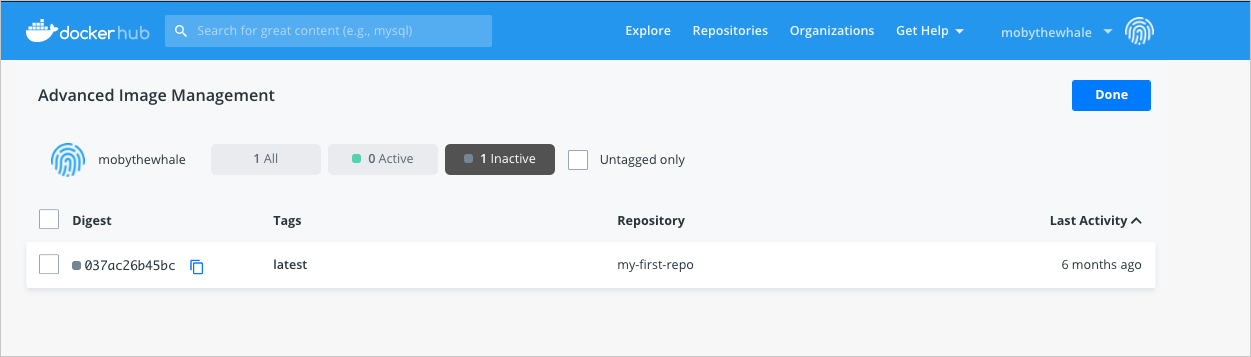
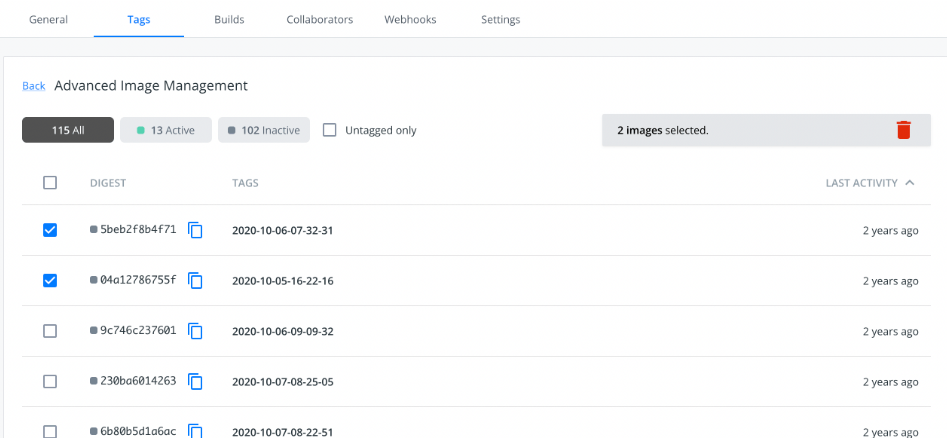
updated content

diff --git a/docker-hub/image-management.md b/docker-hub/image-management.md
@@ -24,11 +24,14 @@ With the new Advanced Image Management dashboard, all of this is now simpler and
 
 To access the  Advanced Image Management dashboard:
 
-1. Log into [Docker Hub](https://hub.docker.com){: target="_blank" rel="noopener" class="_"}.
-2. Click **Repositories** from the main menu and select a repository from the list. This displays a banner indicating the number of inactive images in the repository.
-3. Click **View inactive images**. This displays the Advanced Image Management dashboard. It lists images in your repository and allows you to sort and filter images by tags, activity status, and the last activity date.
+1. Log in to [Docker Hub](https://hub.docker.com){: target="_blank" rel="noopener" class="_"}.
+2. Click **General** and click **Go to Advanced Image Management** from the main menu, and select a repository from the list.
 
-    > You must be logged in as a Docker Pro, Team, or a Business user to use the Advanced Image Management dashboard. Click [Upgrade](https://www.docker.com/pricing?utm_source=docker&utm_medium=webreferral&utm_campaign=docs_driven_upgrade){: target="_blank" rel="noopener" class="_"} to upgrade your existing subscription.
+![Advanced image management dashboard](images/advanced-image-general.png){:width="700px"}
+
+3. In the dashboard you can sort and filter by active, inactive and untagged images.
+
+    >Note: You must be logged in as a Docker Pro, Team, or a Business user to use the Advanced Image Management dashboard. Click [Upgrade](https://www.docker.com/pricing?utm_source=docker&utm_medium=webreferral&utm_campaign=docs_driven_upgrade){: target="_blank" rel="noopener" class="_"} to upgrade your existing subscription.
 
 ## View images
 
@@ -43,15 +46,12 @@ The Advanced Image Management dashboard provides a snapshot of your existing ima
 By default, the Advanced Image Management dashboard displays inactive images in the repository. To delete an inactive image:
 
 1. Log in to [Docker Hub](https://hub.docker.com){: target="_blank" rel="noopener" class="_"}.
-2. Click **Repositories** from the main menu and select a repository from the list. This displays a banner indicating the number of inactive images in the repository.
-3. Click **View inactive images**. This displays the Advanced Image Management dashboard.
-4. Select the images that you’d like to delete from the repository.
-5. Click the delete icon located above the list of images.
+2. Click **General** or **Tab** and click Go to Advanced Image Management from the main menu.
+3. Click **Inactive images** and select the images that you want to delete from the repository and click the delete icon.
 
     ![Advanced image management dashboard](images/dashboard-delete-image.png){:width="700px"}
 
-6. Carefully read the advice displayed about deleting the image you have selected.
-7. Select the check box to confirm your action and then click **Delete**.
+4. Select the check box to confirm your action and then click **Delete**.
 
 ### Deleting a tagged image
 
